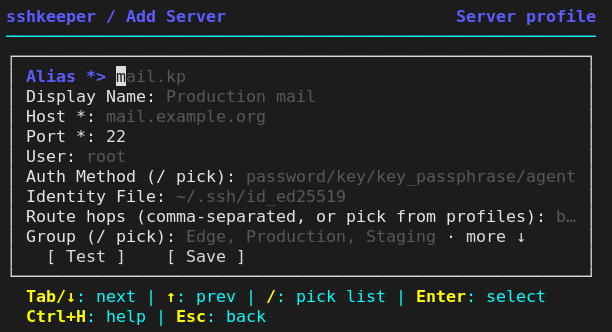
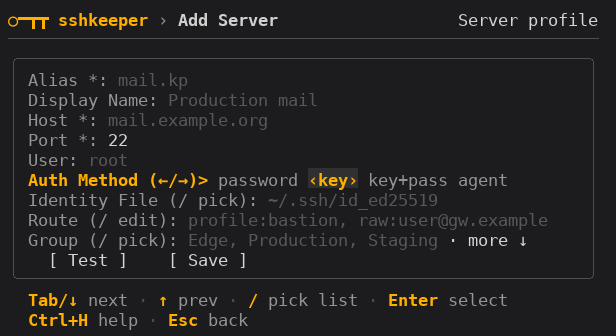
docs: prepare v0.6.0 release
Document the reworked dashboard in the README and the Russian guide:
live filter, sort and group modes, state column, single-key shortcuts,
details panel, return after a session, welcome screen, and ASCII mode.
Replace the screenshots with the new look, add a group-order shot, and
add the v0.6.0 release notes.

diff --git a/docs/releases/v0.6.0.md b/docs/releases/v0.6.0.md
@@ -1,0 +1,60 @@
+# sshkeeper v0.6.0 — a faster, more recognizable dashboard
+
+v0.6.0 reworks the TUI dashboard around the everyday path: find a server,
+connect, come back. Everything stays keyboard-first and fits the same
+60x16 minimum.
+
+## Added
+
+- **Live filter.** `/` (or `Ctrl+F`) filters the list as you type and
+  highlights the matched letters. Names rank first, then aliases, then fuzzy
+  name matches (`bst` finds `Bastion`), then host, user, group, tags, notes,
+  route hops, and forward names or ports. `Enter` connects, `Tab` keeps the
+  filter, `Esc` clears it.
+- **Sort by recent use or group.** `s` cycles between name, most recent
+  connection, and group, and saves the choice as `ui.sort`. A new SEEN column
+  shows the time since the last connection. In group order, group headings
+  fold with `Enter`, `Space`, `←`, or `→`.
+- **State column.** `●` / `✗` for the last test, `◌` while testing, `⇄` when a
+  background tunnel for the server is running, `▣` when a tmux session is
+  open. Tunnels and sessions refresh every 10 seconds, including tunnels
+  started by another sshkeeper process.
+- **Test all.** `T` tests every visible (or marked) server, six at a time,
+  and summarizes the result.
+- **Single-key shortcuts** on the server list: `a` add, `e` edit, `d` delete,
+  `t` test, `x` actions, `f` forwards, `r` run template, `Space` mark, `q` quit,
+  and `j`/`k`/`g`/`G` navigation. The `Ctrl` shortcuts still work.
+- **Welcome screen** on the first run, with `i` to import hosts from
+  `~/.ssh/config`.
+- **ASCII mode** for terminals and fonts without box drawing:
+  `glyphs = "ascii"` under `[ui]`, or `SSHKEEPER_ASCII=1`.
+
+## Changed
+
+- New look: adaptive light/dark palette with one amber accent, a key logo in
+  every header, rounded panels with titles in the border, an accent cursor
+  bar, and shorter `key action · key action` footers. `NO_COLOR` is honored.
+- The details panel shows the route as a chain (`you → bastion → host`), the
+  last test with its reason, saved forwards with their state, open sessions,
+  and notes, instead of repeating host, port, and user.
+- A clean ssh exit returns straight to the dashboard, with the cursor on the
+  same server and a `← Back from <server> · 42m` notice. A failed connection
+  still waits for Enter so ssh's output stays readable.
+- Confirmations open as a centered dialog over the dimmed screen.
+- The auth method in the server form is a selector: `←`/`→` cycle
+  `password ‹key› key+pass agent`.
+- Success notices fade after five seconds; errors stay until the next key.
+- The list drops the AUTH column (it is in the details panel) to give names
+  room.
+
+## Fixed
+
+- A connection test result could be recorded on whichever server the cursor
+  had moved to by the time the test finished.
+- Fast typing or key repeat delivered as one event (`jjj`, `/prod`) is now
+  handled key by key.
+
+To install on Debian/Ubuntu x86-64, download the release asset and run
+`sudo apt install ./sshkeeper_0.6.0-1_amd64.deb` (use the arm64 package on
+ARM64). Linux and macOS are the primary targets; the Windows build remains
+experimental.

diff --git a/README.md b/README.md
@@ -206,13 +206,13 @@ it to DEL (in xterm, `backarrowKey: false`).
 
 ### Screenshots
 
-| Wide dashboard | Dashboard 80x24 | Server form 60x16 |
-|----------------|-----------------|-------------------|
-| ![Wide dashboard](docs/screenshots/screen_1.png) | ![Dashboard 80x24](docs/screenshots/screen_2.png) | ![Server form 60x16](docs/screenshots/screen_3.png) |
+| Wide dashboard | Live filter, 80x24 | Server form, 60x16 |
+|----------------|--------------------|--------------------|
+| ![Wide dashboard](docs/screenshots/screen_1.png) | ![Live filter at 80x24](docs/screenshots/screen_2.png) | ![Server form at 60x16](docs/screenshots/screen_3.png) |
 
-| Port forward form | Safe confirmation |
-|-------------------|-------------------|
-| ![Port forward form](docs/screenshots/screen_4.png) | ![Safe confirmation](docs/screenshots/screen_5.png) |
+| Group order | Port forward form | Confirmation dialog |
+|-------------|-------------------|---------------------|
+| ![Group order with a folded group](docs/screenshots/screen_6.png) | ![Port forward form](docs/screenshots/screen_4.png) | ![Confirmation dialog](docs/screenshots/screen_5.png) |
 
 ### Key Reference
 
